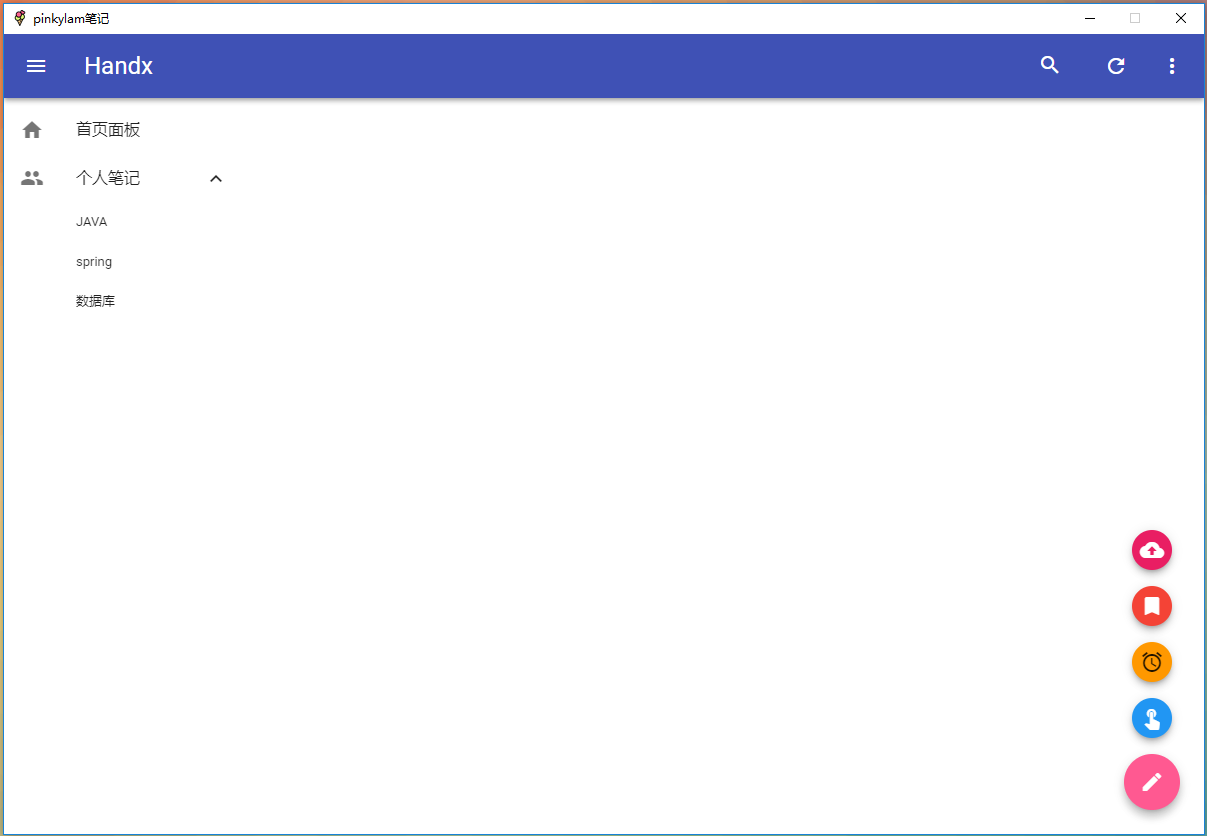
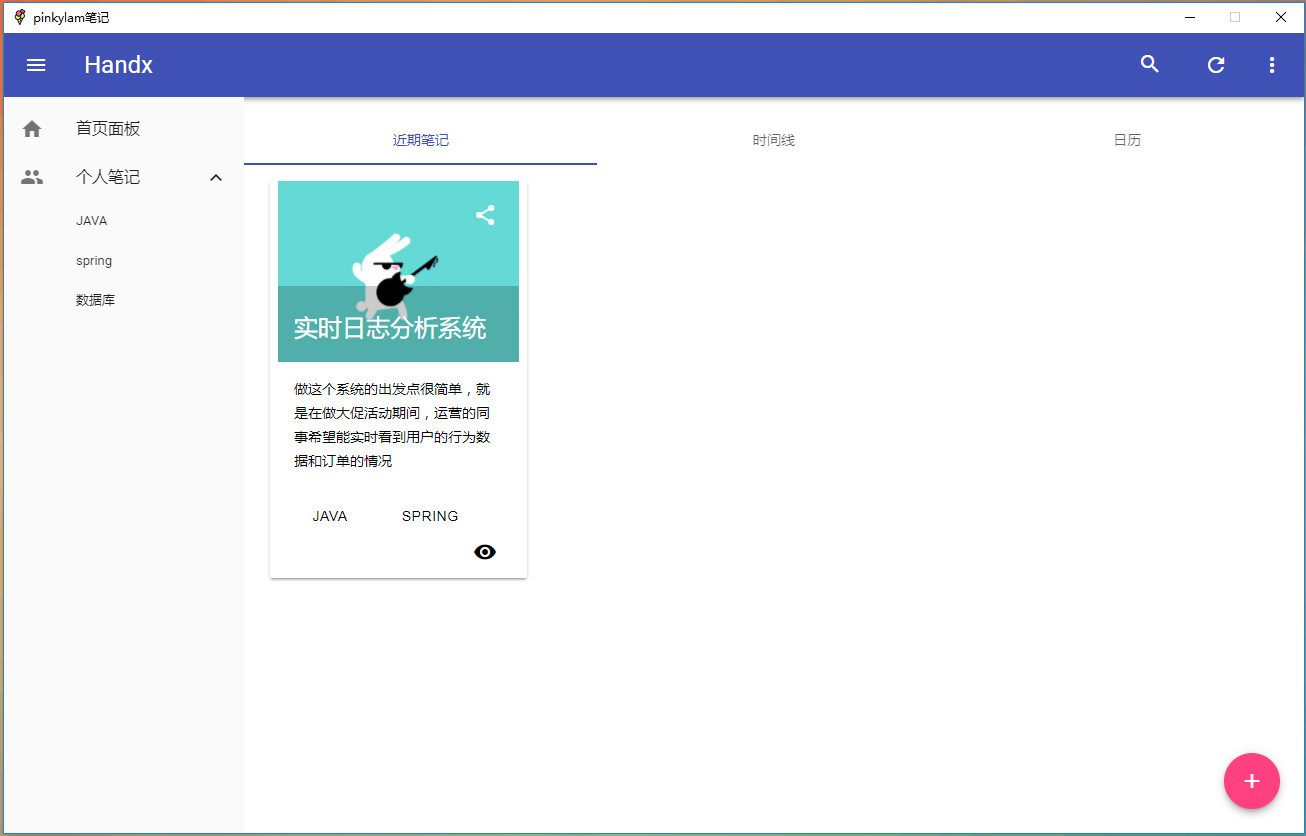
update index page

diff --git a/view/index.html b/view/index.html
@@ -40,7 +40,7 @@
 		</div>
 		<!--left menu-->
 		<div class="mdui-drawer-body-left" style="padding-top: 20px;">
-			<div class="mdui-drawer" id="drawer">
+			<div class="mdui-drawer" id="drawer"style="background: #FAFAFA;">
   				<ul class="mdui-list" mdui-collapse="{accordion: true}">
 				  	<li class="mdui-list-item mdui-ripple">
 					    <i class="mdui-list-item-icon mdui-icon material-icons">&#xe88a;</i>
@@ -75,6 +75,47 @@
     		</div>
   		</div>
   		
+  		<div style="height: 710px;">
+  			<div class="mdui-tab mdui-tab-full-width" mdui-tab>
+			  	<a href="#tab1-content" id="tab1" class="mdui-ripple">近期笔记</a>
+			  	<a href="#tab2-content" id="tab2" class="mdui-ripple">时间线</a>
+			  	<a href="#tab3-content" id="tab3" class="mdui-ripple">日历</a>
+			</div>
+			
+			<div id="tab1-content" class="mdui-p-a-2">
+				<div class="mdui-card mdui-col-xs-3">
+
+				  <!-- 卡片的媒体内容，可以包含图片、视频等媒体内容，以及标题、副标题 -->
+				  <div class="mdui-card-media">
+				    <img src="../resource/img/head.gif"/>
+				    
+				    <!-- 卡片中可以包含一个或多个菜单按钮 -->
+				    <div class="mdui-card-menu">
+				      <button class="mdui-btn mdui-btn-icon mdui-text-color-white"><i class="mdui-icon material-icons">&#xe80d;</i></button>
+				    </div>
+				  	<div class="mdui-card-media-covered">
+				      <div class="mdui-card-primary">
+				        <div class="mdui-card-primary-title">实时日志分析系统</div>
+				      </div>
+				    </div>
+				  </div>
+				  
+				  <!-- 卡片的内容 -->
+				  <div class="mdui-card-content">做这个系统的出发点很简单，就是在做大促活动期间，运营的同事希望能实时看到用户的行为数据和订单的情况</div>
+				  
+				  <!-- 卡片的按钮 -->
+				  <div class="mdui-card-actions">
+				    <button class="mdui-btn mdui-ripple">java</button>
+				    <button class="mdui-btn mdui-ripple">spring</button>
+				    <button class="mdui-btn mdui-btn-icon mdui-float-right"><i class="mdui-icon material-icons">&#xe417;</i></button>
+				  </div>
+				  
+				</div>
+			</div>
+			<div id="tab2-content" class="mdui-p-a-2">还没开发</div>
+			<div id="tab3-content" class="mdui-p-a-2">也是没有</div>
+  		</div>
+  		
 	</body>
 	<script type="text/javascript" src="../resource/js/jquery.min.js" ></script>
 	<script type="text/javascript" src="../resource/plugins/mdui/js/mdui.js" ></script>
@@ -86,6 +127,10 @@
 		var fab = new mdui.Fab('#fab');
 		var menu = new mdui.Menu('#settingBtn', '#setting_menu');
 		
+		$(function(){
+			 inst.close();
+		});
+
 		document.getElementById('settingBtn').addEventListener('click', function () {
 		  	menu.open();
 		});
@@ -94,5 +139,9 @@
 		document.getElementById('toggle').addEventListener('click', function () {
 		  	inst.toggle();
 		});
+		 
+		
+
 	</script>
+	
 </html>

diff --git a/resource/css/style.css b/resource/css/style.css
@@ -1,4 +1,4 @@
-#main{width: 1200px;height: 800px;min-height: 800px;min-width: 1200px;}
+#main{width: 1300px;height: 800px;min-height: 800px;min-width: 1300px;}
 #login{margin-top: 200px;margin-left: 300px;}
 .mdui-textfield{margin-top: 20px;}
 #title{margin-top: 200px;margin-left: 190px;}

diff --git a/resource/css/index.css b/resource/css/index.css
@@ -1,3 +1,4 @@
-#main{width: 1200px;height: 800px;min-height: 800px;min-width: 1200px;}
+#main{width: 1300px;height: 800px;min-height: 800px;min-width: 1300px;}
 
 #setting_menu{margin-top: 70px;}
+.mdui-card{margin-left: 10px;}
